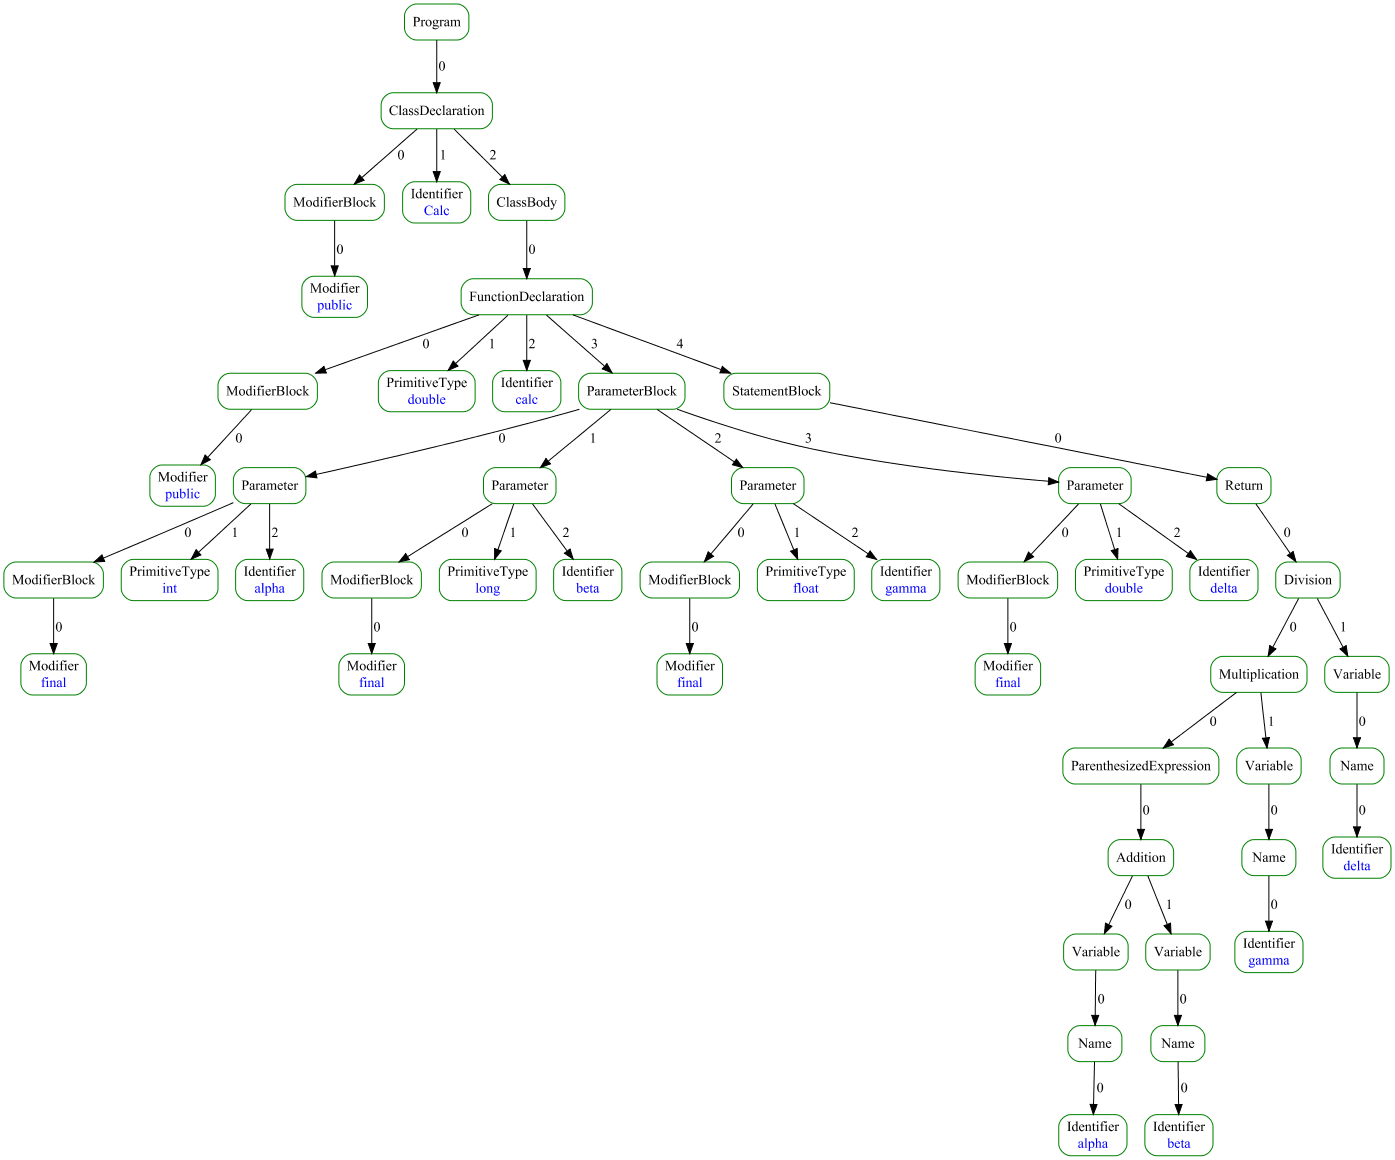
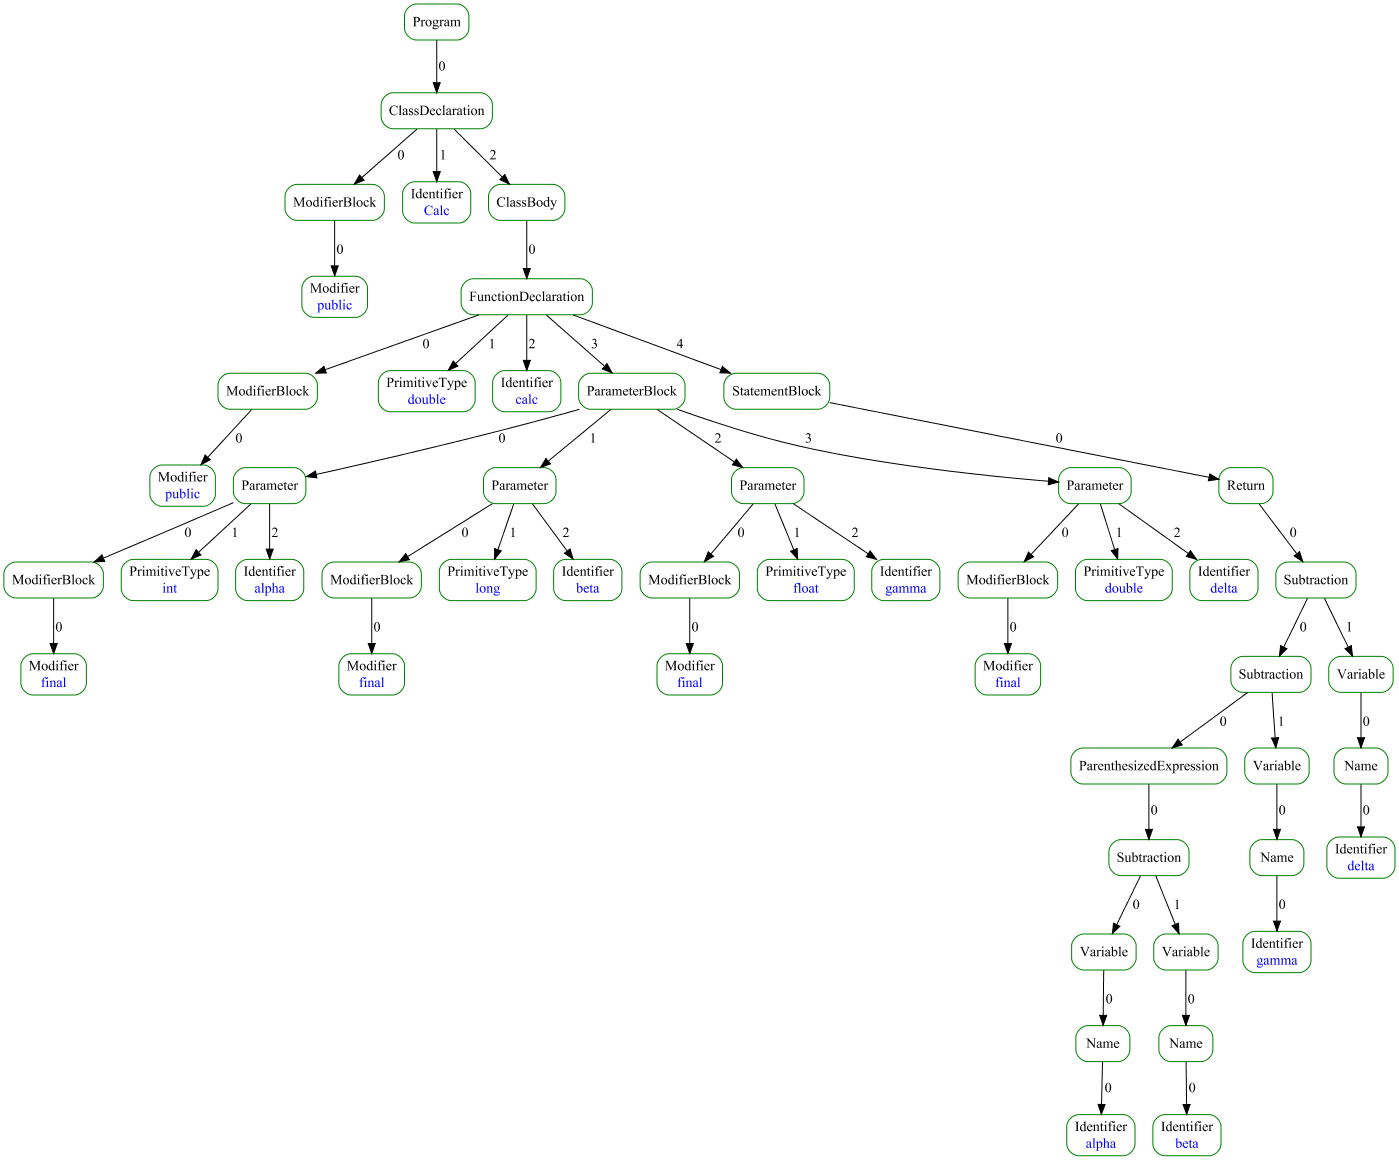
Added example of division by zero vulnerability

diff --git a/src/main/examples/all-operator-replacer/results/Program_gen.java b/src/main/examples/all-operator-replacer/results/Program_gen.java
@@ -1,5 +1,5 @@
 public class Calc {
     public double calc(final int alpha, final long beta, final float gamma, final double delta) {
-        return (alpha + beta) * gamma / delta;
+        return (alpha - beta) - gamma - delta;
     }
 }

diff --git a/src/main/examples/division-by-zero/results/Program_gen_2.java b/src/main/examples/division-by-zero/results/Program_gen_2.java
@@ -1,0 +1,8 @@
+class Program {
+    private double copy;
+
+    public double count(double value) {
+        this.copy = value;
+        return 10 / this.copy;
+    }
+}

diff --git a/src/main/examples/division-by-zero/results/Program_gen_1.java b/src/main/examples/division-by-zero/results/Program_gen_1.java
@@ -1,0 +1,5 @@
+class Program {
+    public double count(double value) {
+        return 10 / (value + 0);
+    }
+}

diff --git a/src/main/examples/division-by-zero/sources/Program.java b/src/main/examples/division-by-zero/sources/Program.java
@@ -1,0 +1,5 @@
+class Program {
+    public double count(double value) {
+        return 10 / value;
+    }
+}
